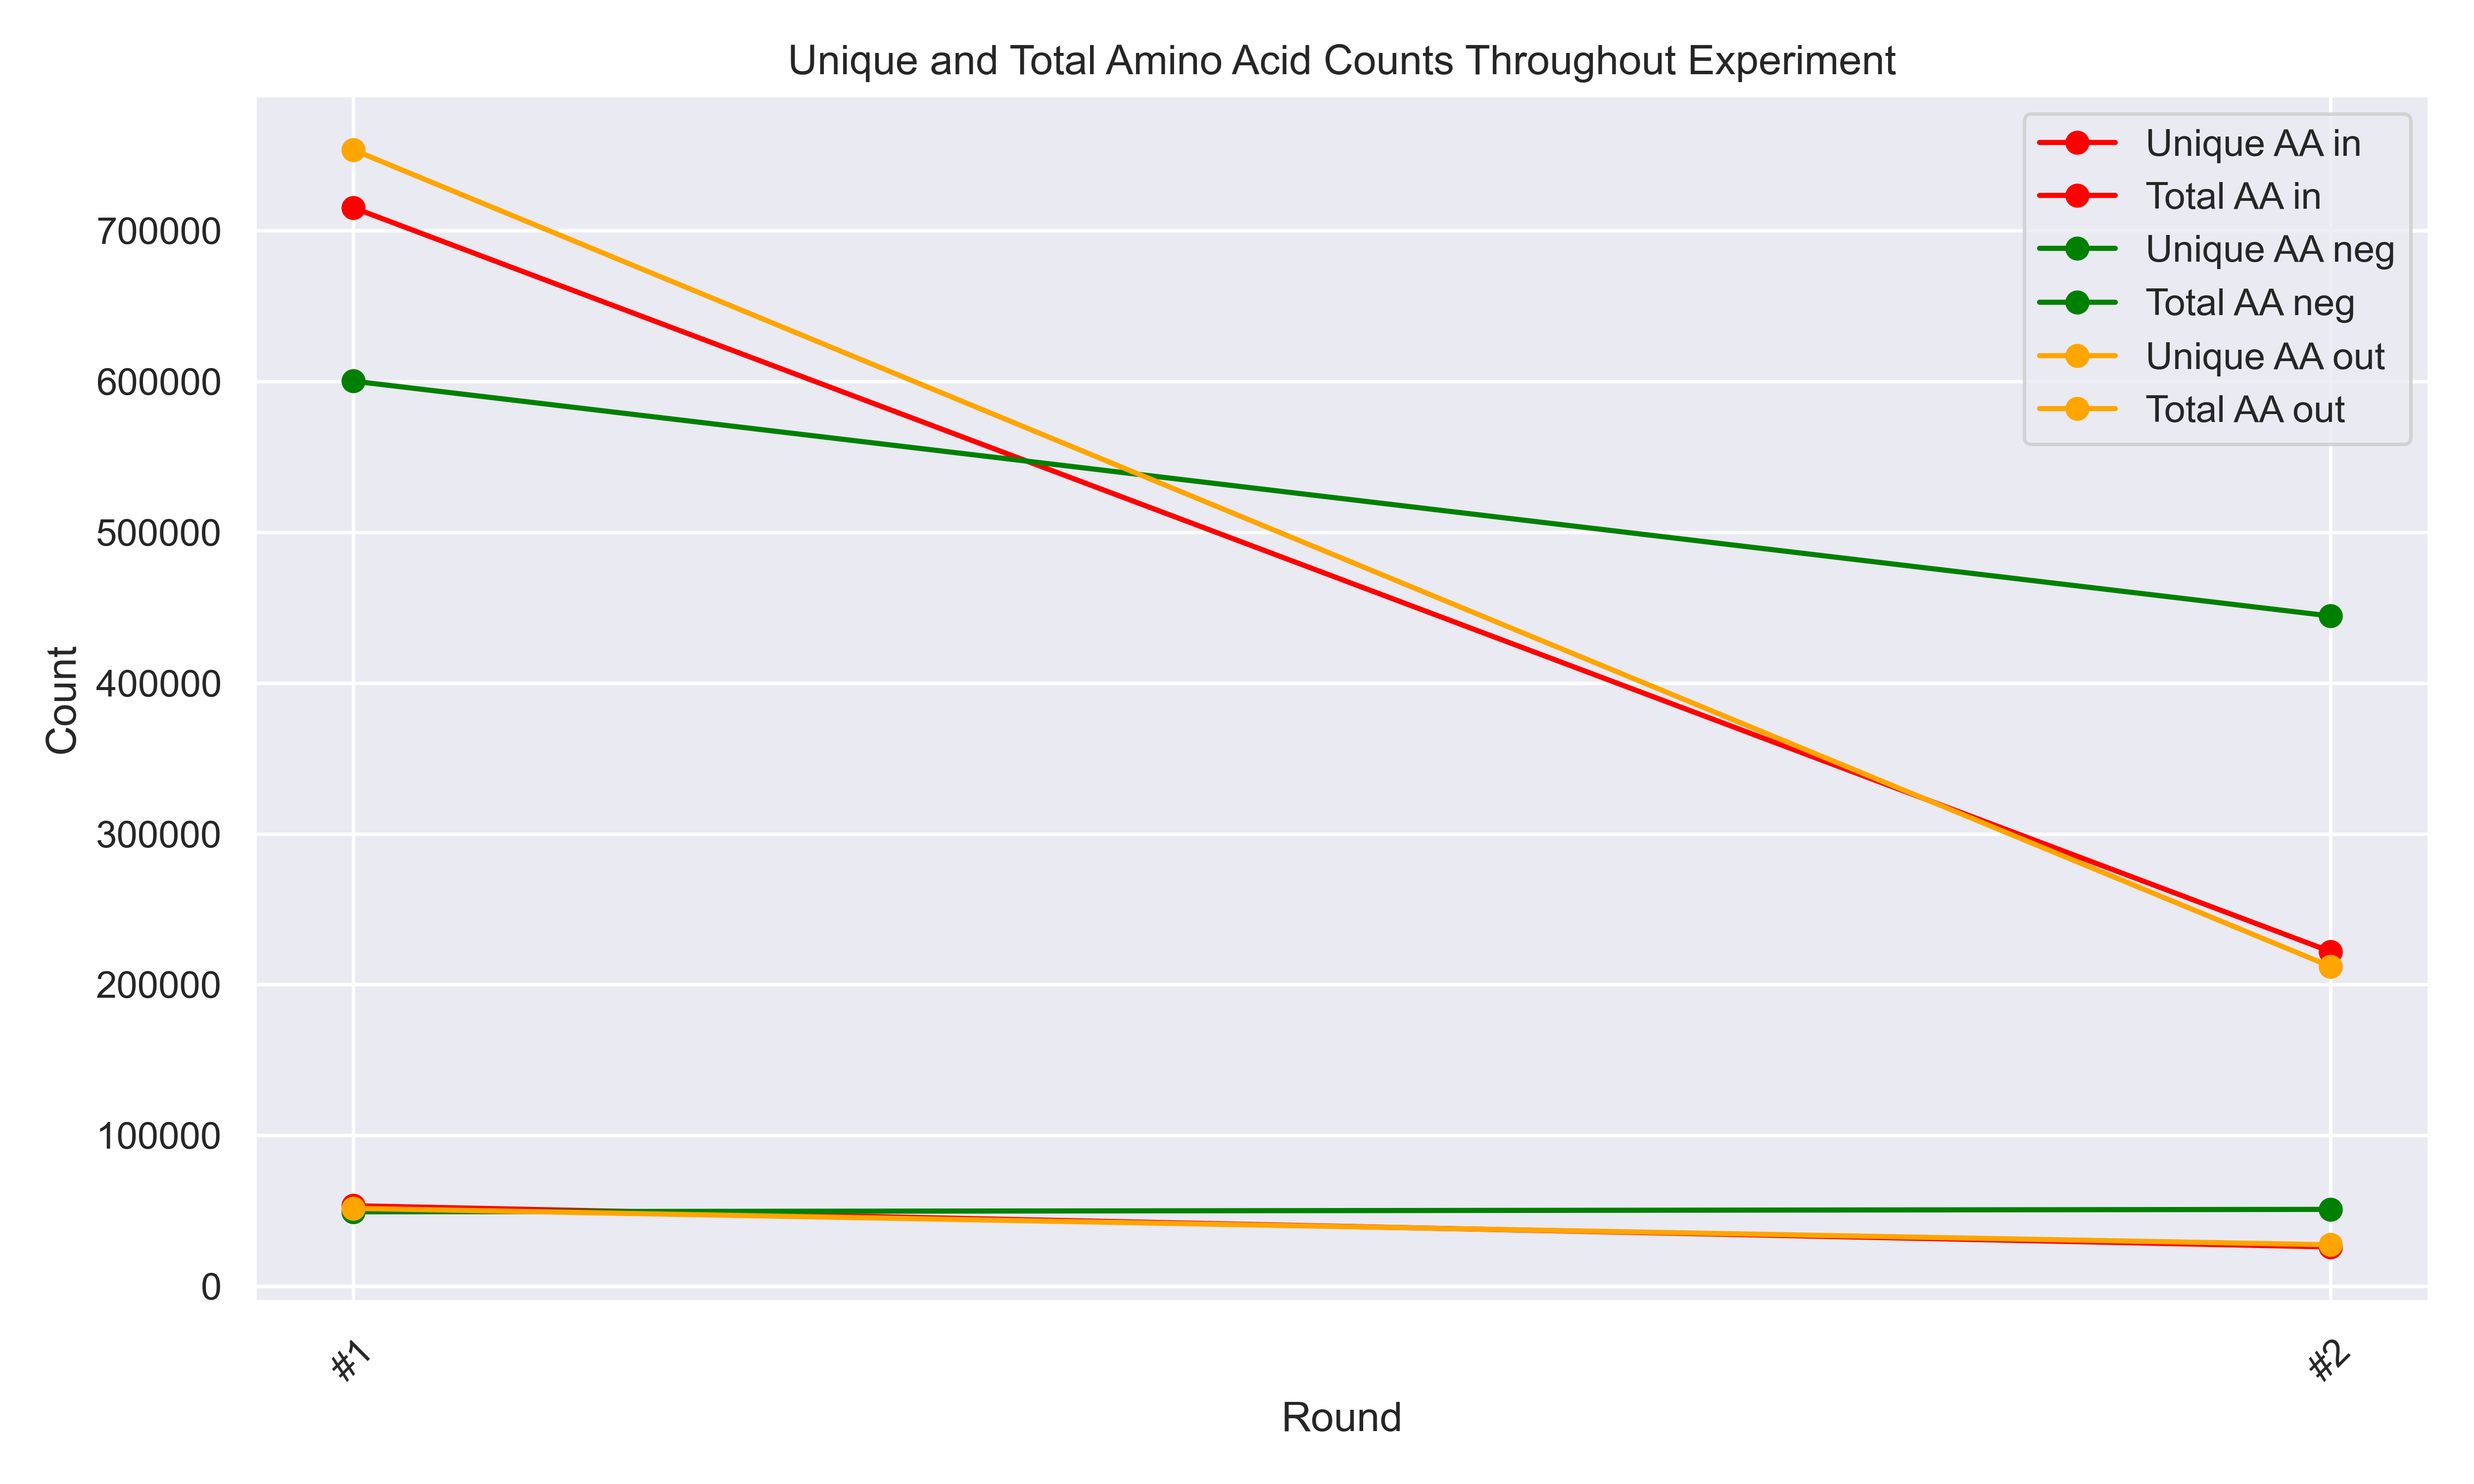
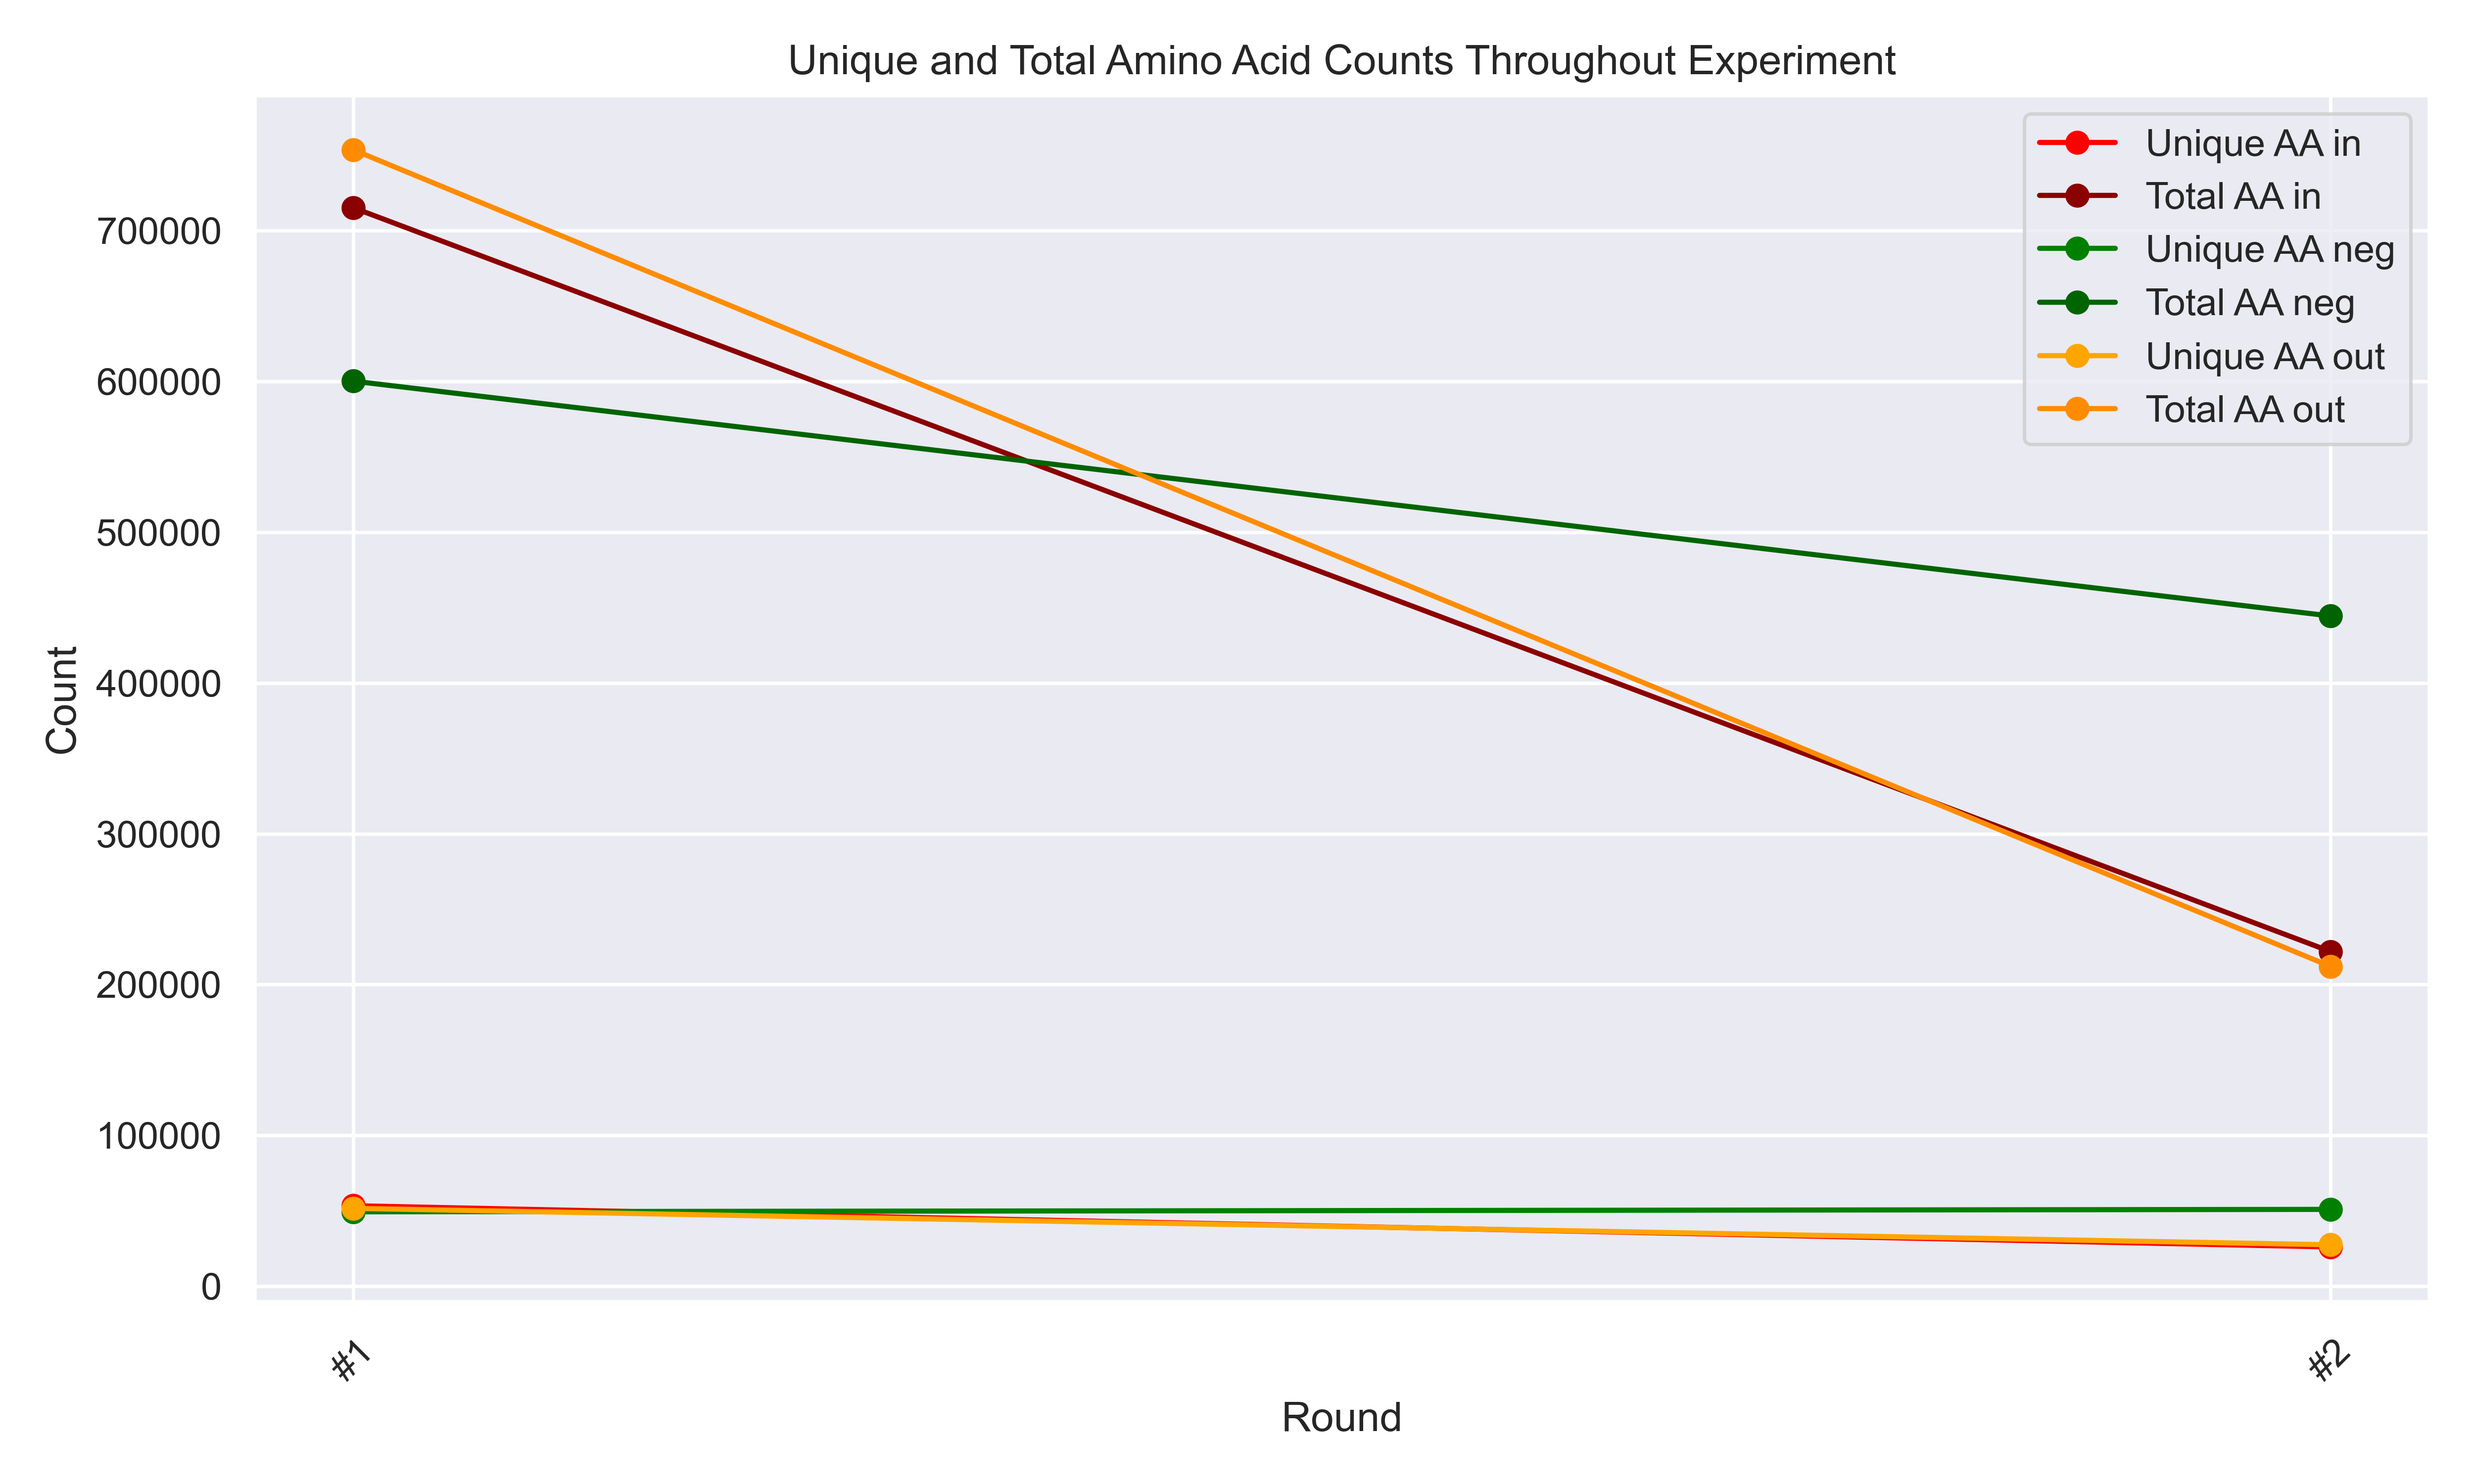
Add enrichment notes

diff --git a/graphs.py b/graphs.py
@@ -83,7 +83,7 @@ for key in unique_aa.keys():
     label_u = "Unique AA " + key
     label_t = "Total AA " + key
     plt.plot(unique_aa[key], marker="o", label=label_u, color=color)
-    plt.plot(total_aa[key], marker="o", label=label_t, color=color)
+    plt.plot(total_aa[key], marker="o", label=label_t, color="dark" + color)
 
 plt.xlabel('Round')
 plt.ylabel('Count')
